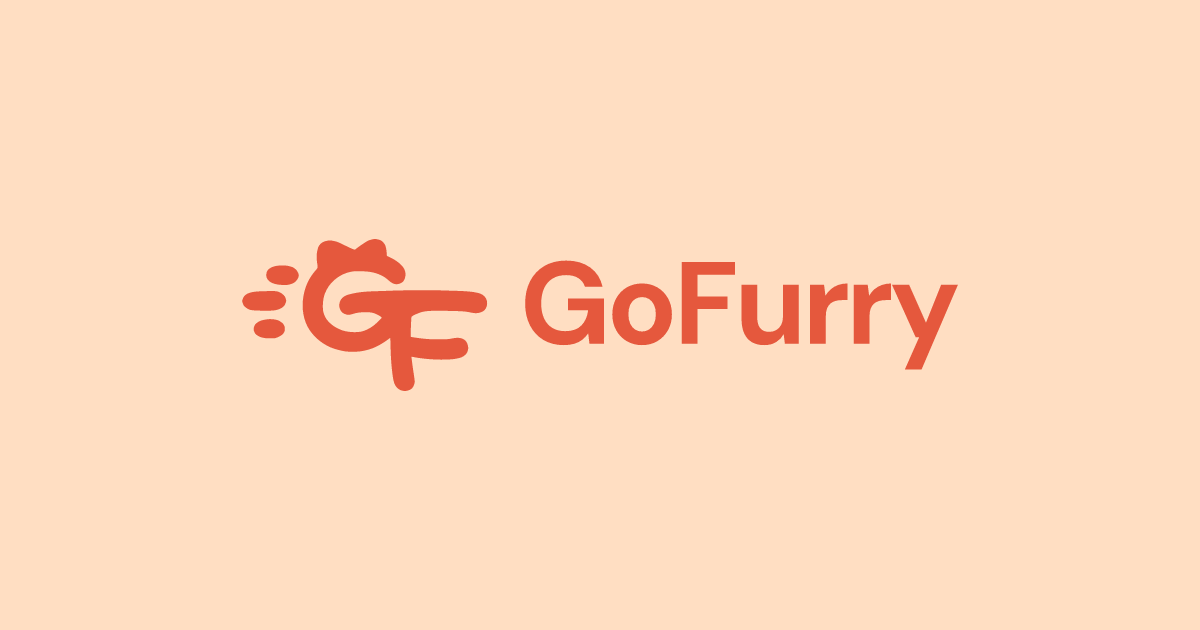
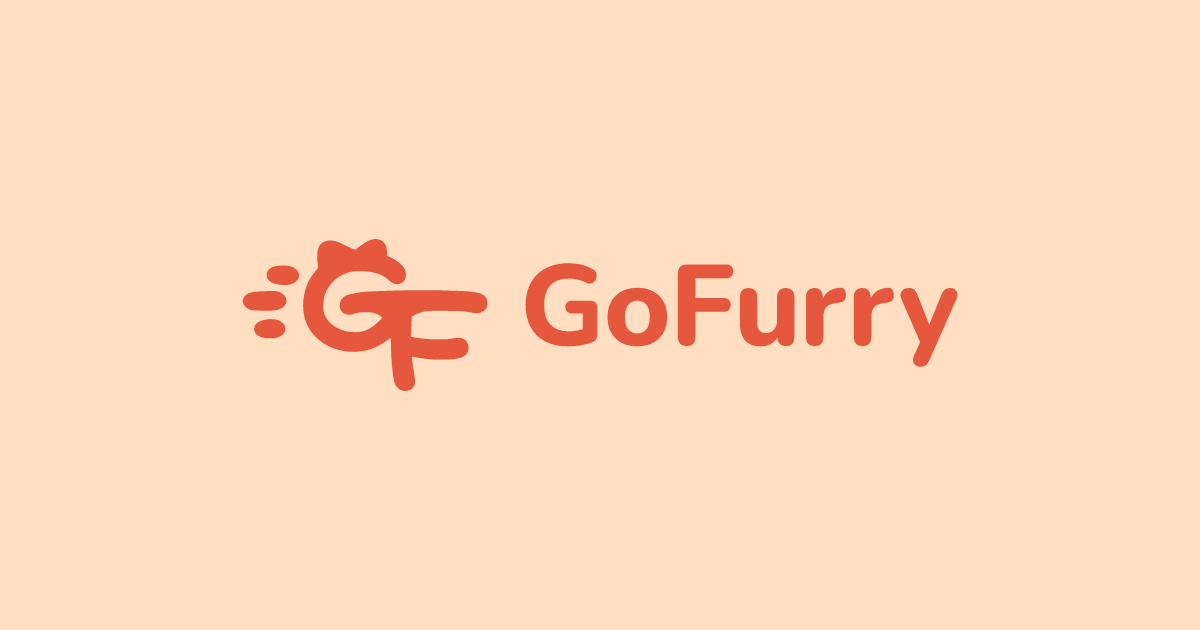
feat(brand): use Nunito for the GoFurry wordmark

Changed region(s): [[0.4317, 0.3921, 0.6167, 0.573], [0.6167, 0.4524, 0.8017, 0.6032]]

diff --git a/apps/web/public/brand/README.md b/apps/web/public/brand/README.md
@@ -4,6 +4,6 @@ The symbol uses the four original paths and their transform from [`logo-mini.svg
 
 The OG and favicon use the legacy icon's orange `#E5583D` artwork and light peach `#FFDEC2` background. The standalone symbol and horizontal artwork use the same orange on transparent backgrounds. [Legacy icon PNG](https://github.com/gofurry/gofurry-nav-site/blob/0b0df139f3c85d1238160a6f0ee2cbd007736c6d/apps/cn/nav-web/public/logo-mini.png)
 
-The English wordmark uses DM Sans 700 with HarfBuzz kerning and −0.035 em tracking, following the Tool4Furry reference. FontTools converted the glyphs from `@fontsource-variable/dm-sans@5.3.0` (`dm-sans-latin-wght-normal.woff2`) to paths. Copyright 2014 The DM Sans Project Authors, SIL Open Font License 1.1. [DM Sans license](https://github.com/librecosta/tool4furry/blob/a14429a384b2cd7df6fc475f5a30642560a368fa/public/licenses/dm-sans-OFL.txt) · [Tool4Furry artwork](https://github.com/librecosta/tool4furry/tree/a14429a384b2cd7df6fc475f5a30642560a368fa/public/brand)
+The English wordmark uses Nunito ExtraBold 800 from Google Fonts (`Nunito[wght].ttf`, version 3.602). FontTools converted the glyphs to paths after HarfBuzz shaping and pair-by-pair optical spacing adjustments. Copyright 2014 The Nunito Project Authors, SIL Open Font License 1.1. [Nunito source](https://github.com/google/fonts/tree/cc39c4c2c304bc368c9b7c311ea2bcc6013299fe/ofl/nunito) · [Nunito license](nunito-OFL.txt) · [Tool4Furry composition reference](https://github.com/librecosta/tool4furry/tree/a14429a384b2cd7df6fc475f5a30642560a368fa/public/brand)
 
 Treat `logo-mini.svg` as the source for symbol geometry. Keep its paths and transform in sync across the three SVGs, and reuse the same wordmark outlines in the horizontal artwork and OG master. The favicon places the symbol at 78 px visible width on a 96 px circular backplate and centers it by its visible bounds. After editing the OG master, export the PNG at the SVG's native 1200 × 630 size with resvg. The current PNG was exported with `resvg-py==0.5.0`.
